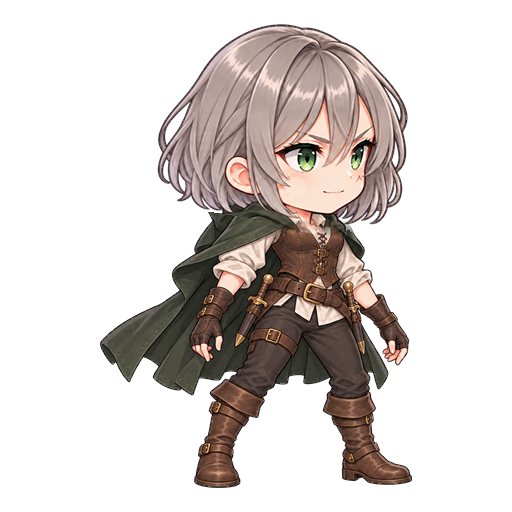
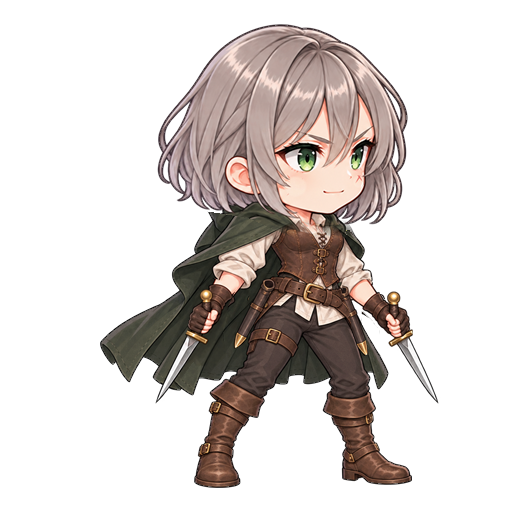
Art S08: Cecile sd_idle holds twin daggers reverse-grip (mask edit); SD idle weapon-in-hand rule

Changed region(s): [[0.3125, 0.5312, 0.5312, 0.7812], [0.6562, 0.5312, 0.875, 0.7812]]

diff --git a/art/AGENTS.md b/art/AGENTS.md
@@ -74,6 +74,7 @@
 | 2026-10-15 · S04 | **한 캐릭터의 스킬 아이콘 3개는 색만 다르면 안 되고 실루엣(주된 물체나 구도)이 달라야 한다.** 리나는 3개 모두 방패라 64px에서 색으로만 구분된다. 예: 강타는 부딪히는 순간, 도발은 외치는 얼굴이나 깃발, 궁극기는 빛나는 검처럼 주인공 물체를 바꾼다 |
 | 2026-10-15 · S06 | **길드 하우스는 소박한 목조 건물이다.** 왕궁·대성당처럼 그리지 않는다(돌기둥, 고딕 아치, 금촛대 금지). 참나무 들보, 회반죽 벽, 널빤지 바닥, 돌 벽난로. 길드 하우스의 모든 배경(폐허, 캠프, 복구, 회상, 봉인된 방)에 적용. manifest extra 의 GUILDHALL 설명이 기준 |
 | 2026-10-15 · S07 | **얼굴의 작은 표식(흉터, 점, 문신)은 정면 그림에서 잘 빠진다** (세실 일상복 정면 흉터 3회 누락). 시트·스탠딩마다 얼굴을 확대해 표식이 본인 기준 맞는 쪽에 있는지 확인하고, 빠졌으면 재생성하지 말고 볼만 마스크 편집한다. 정면에서는 본인 왼쪽 볼이 보는 사람 기준 오른쪽이다 |
+| 2026-10-15 · S08 | **SD idle 은 전투 대기 자세다. 주무기를 손에 든다** (세실이 맨손이라 리나 옆에서 약해 보였음). 쌍단검은 양손 역수, 지팡이·석궁·류트도 손에 든다. 스탠딩(대화용)은 무기를 차고만 있어도 된다 |
 
 ## 저장소 관리
 

diff --git a/art/steps/S08.md b/art/steps/S08.md
@@ -94,3 +94,5 @@
 - 내부알파255, 안쪽 반투명0, 가장자리1px 부근에만 부드러운 알파 유지. 0/255 이진 출력 아님. 밝은/어두운/체커 배경 QA 보존.
 - portrait raw v1 및 SD raw v1/v2/v3 원본 덮어쓰기 없이 저장. SD 머리·목 및 두 볼 마스크/RGBA 차이 이미지 보존, 각 마스크 밖 차이0 및 볼 편집 전체 알파차이0. 각 final 옆 .prompt.txt에 날짜·도구·백엔드 모델 식별자 비공개 사실·전체 생성/편집 프롬프트·참조 순서·후처리·QA 수치 기록.
 - art/raw/qa_S08/verification.json에서 기존 final/refs PNG·prompt SHA256 불변, manifest 변경이 S07 승인2행+S08 generated2행뿐인지 검증. 나머지 S08 19행 todo 및 파일 미생성 확인.
+- 2026-10-15 · C02_sd_idle: **수정 (사용자).** 맨손에 단검이 허리에 꽂혀 있어 리나와 나란히 서면 싸울 준비가 안 돼 보인다. 단검 두 자루를 양손에 거꾸로 쥔(역수) 전투 대기 자세로. 재생성하지 말고 팔·손·단검 부분만 마스크 편집. 허리 칼집은 비워 둔다. 얼굴, 머리, 망토, 다리, 발 기준선은 그대로
+- 2026-10-15 · C02_portrait_combat_neutral: 좋음. 그대로 둔다
